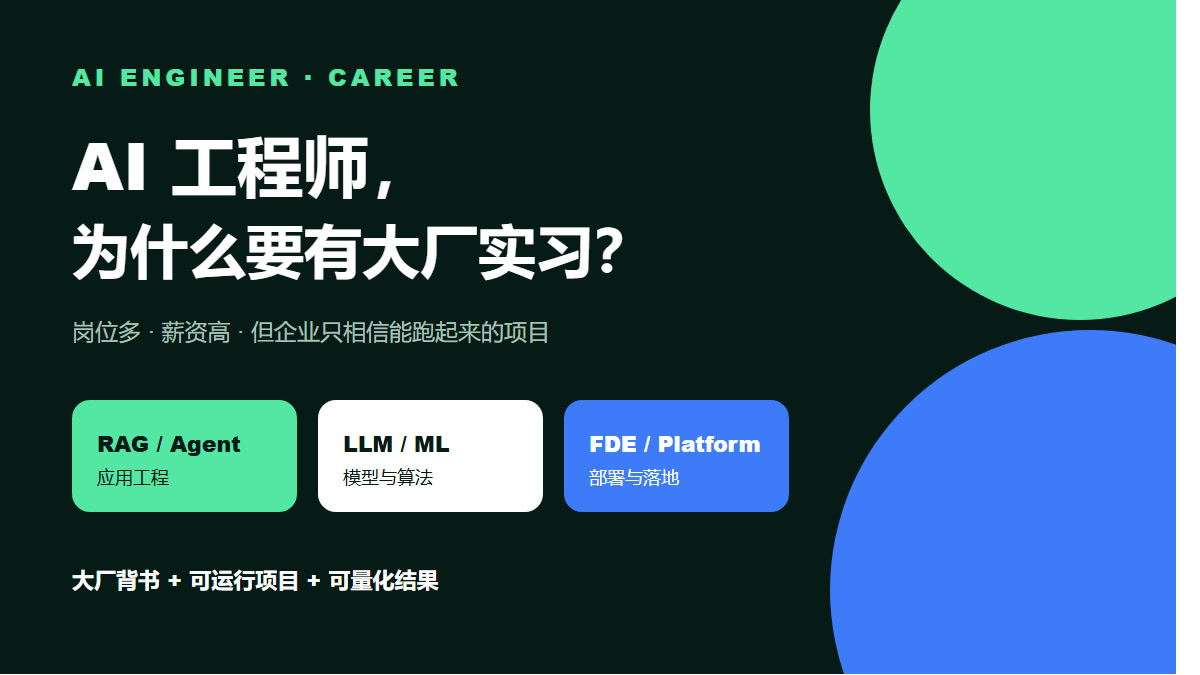
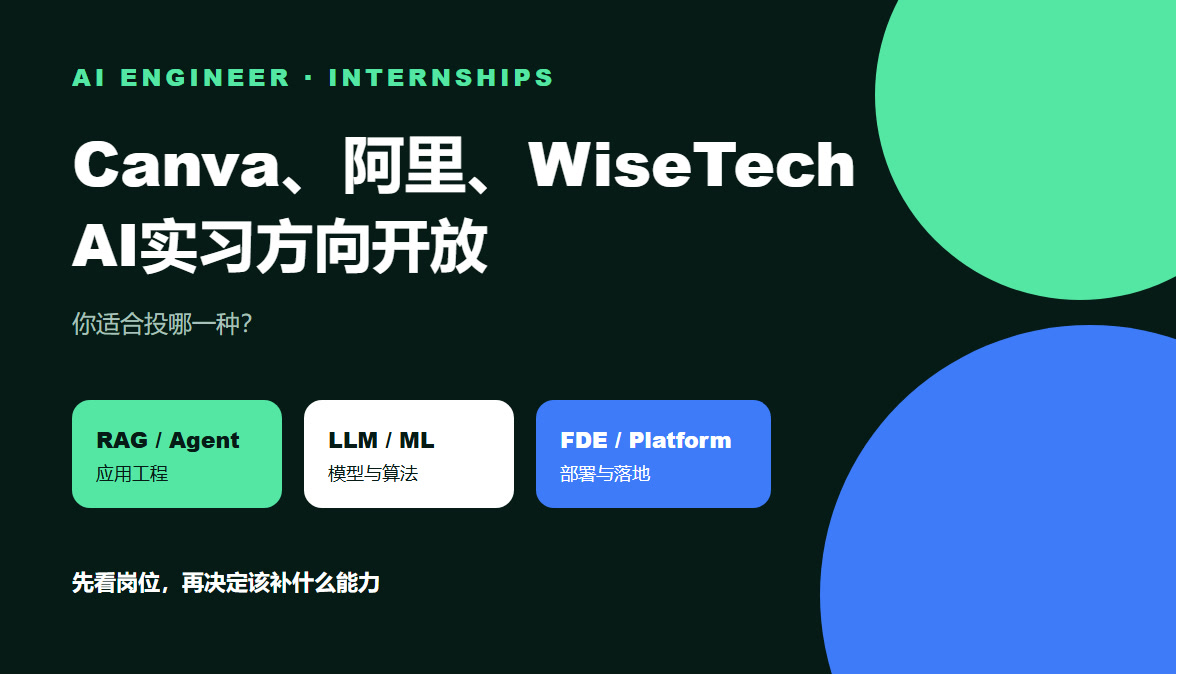
Rewrite AI engineer article around role selection

diff --git a/wechat-assets/apeintern/2026-11-12-ai-engineer/article.html b/wechat-assets/apeintern/2026-11-12-ai-engineer/article.html
@@ -1,46 +1,32 @@
-<!doctype html><html lang="zh-CN"><head><meta charset="utf-8"><meta name="viewport" content="width=device-width,initial-scale=1"><title>AI工程师，为什么一定要有一段大厂实习？</title><style>body{margin:0;background:#edf1ef;color:#1f2b28;font-family:-apple-system,BlinkMacSystemFont,"Segoe UI","PingFang SC","Microsoft YaHei",sans-serif}.toolbar{position:sticky;top:0;z-index:9;display:flex;gap:10px;align-items:center;justify-content:center;flex-wrap:wrap;padding:12px;background:#071a17;color:#fff}.toolbar button{border:0;border-radius:999px;background:#55e6a5;color:#071a17;padding:10px 22px;font-weight:800}.page{max-width:720px;margin:24px auto;background:#fff}#article{padding:36px 42px 52px;font-size:17px;line-height:1.82}h1{font-size:30px;line-height:1.35;margin:0 0 16px;color:#071a17}h2{font-size:21px;margin:36px 0 14px;color:#071a17}.lead{color:#4b5b56;border-left:4px solid #3e7bfa;padding-left:16px}.hero,.info{display:block;width:100%;height:auto;margin:22px 0;border-radius:10px}.caption{text-align:center;color:#7b8985;font-size:12px;margin-top:-12px}.highlight{margin:24px 0;padding:19px;background:#071a17;color:#fff;border-radius:10px;text-align:center;font-weight:700}.qr{display:block;width:68%;max-width:420px;height:auto;margin:20px auto 8px}.qrtext{text-align:center;font-weight:800;color:#071a17}.note{font-size:12px;color:#858f8c;margin-top:24px}ul{padding-left:1.4em}@media(max-width:760px){.page{margin:0}#article{padding:28px 22px 42px}h1{font-size:26px}}</style></head><body><div class="toolbar"><span>按顺序复制到公众号</span><button id="copyTitle">① 复制标题</button><button id="copySummary">② 复制摘要</button><button id="copyBtn">③ 复制正文</button></div><main class="page"><article id="article">
-<h1>AI工程师，为什么一定要有一段大厂实习？</h1>
-<p class="lead">岗位多、薪资高，但企业招的不是“学过Python和大模型”的学生，而是能把AI系统真正做出来、跑起来并不断优化的人。</p>
-<img class="hero" src="https://raw.githubusercontent.com/hades217/awesome-ai/master/wechat-assets/apeintern/2026-11-12-ai-engineer/cover.jpg" alt="AI工程师岗位与大厂实习">
+<!doctype html><html lang="zh-CN"><head><meta charset="utf-8"><meta name="viewport" content="width=device-width,initial-scale=1"><title>Canva、阿里、WiseTech等AI实习方向开放：你适合投哪一种？</title><style>body{margin:0;background:#edf1ef;color:#1f2b28;font-family:-apple-system,BlinkMacSystemFont,"Segoe UI","PingFang SC","Microsoft YaHei",sans-serif}.toolbar{position:sticky;top:0;z-index:9;display:flex;gap:10px;align-items:center;justify-content:center;flex-wrap:wrap;padding:12px;background:#071a17;color:#fff}.toolbar button{border:0;border-radius:999px;background:#55e6a5;color:#071a17;padding:10px 22px;font-weight:800}.page{max-width:720px;margin:24px auto;background:#fff}#article{padding:36px 42px 52px;font-size:17px;line-height:1.82}h1{font-size:30px;line-height:1.35;margin:0 0 16px;color:#071a17}h2{font-size:21px;margin:36px 0 14px;color:#071a17}.lead{color:#4b5b56;border-left:4px solid #3e7bfa;padding-left:16px}.hero,.info{display:block;width:100%;height:auto;margin:22px 0;border-radius:10px}.caption{text-align:center;color:#7b8985;font-size:12px;margin-top:-12px}.highlight{margin:24px 0;padding:19px;background:#071a17;color:#fff;border-radius:10px;text-align:center;font-weight:700}.qr{display:block;width:68%;max-width:420px;height:auto;margin:20px auto 8px}.qrtext{text-align:center;font-weight:800;color:#071a17}.note{font-size:12px;color:#858f8c;margin-top:24px}@media(max-width:760px){.page{margin:0}#article{padding:28px 22px 42px}h1{font-size:26px}}</style></head><body><div class="toolbar"><span>按顺序复制到公众号</span><button id="copyTitle">① 复制标题</button><button id="copySummary">② 复制摘要</button><button id="copyBtn">③ 复制正文</button></div><main class="page"><article id="article">
+<h1>Canva、阿里、WiseTech等AI实习方向开放：你适合投哪一种？</h1>
+<p class="lead">AI工程师不是一个岗位，而是一组差异很大的技术方向。先看目前有哪些公司和岗位，再决定该补什么能力。</p>
+<img class="hero" src="https://raw.githubusercontent.com/hades217/awesome-ai/master/wechat-assets/apeintern/2026-11-12-ai-engineer/cover.jpg" alt="AI工程师实习方向">
 
-<h2>岗位需求很大，薪资也不低</h2>
-<p>截至2026年11月12日，在LinkedIn Australia搜索“AI engineer jobs”，页面显示<strong>99+个相关结果</strong>。</p>
-<img class="info" src="https://raw.githubusercontent.com/hades217/awesome-ai/master/wechat-assets/apeintern/2026-11-12-ai-engineer/jobs-proof.jpg" alt="LinkedIn澳大利亚AI工程师岗位搜索结果">
-<p class="caption">LinkedIn公开招聘页面｜页面结果会实时变化</p>
-<p>Jora同期数据显示，澳大利亚Artificial Intelligence Engineer平均年薪约为<strong>A$145,000</strong>。</p>
-<img class="info" src="https://raw.githubusercontent.com/hades217/awesome-ai/master/wechat-assets/apeintern/2026-11-12-ai-engineer/salary-proof.jpg" alt="澳大利亚AI工程师平均薪资">
-<p class="caption">Jora薪资页面｜数据会随招聘市场更新</p>
-<div class="highlight">岗位很多，但大部分招聘都要求能够展示完整的工程项目。</div>
+<h2>目前可以选择哪些岗位？</h2>
+<img class="info" src="https://raw.githubusercontent.com/hades217/awesome-ai/master/wechat-assets/apeintern/2026-11-12-ai-engineer/roles.jpg" alt="AI工程师实习公司与岗位方向">
+<p><strong>Canva</strong>覆盖AI Engineer、Software Engineer和模型训练；<strong>WiseTech Global</strong>覆盖LLM、生成式AI、Applied AI和机器学习；<strong>阿里巴巴</strong>有AI Agent应用开发；<strong>New Aim</strong>有AI Engineer、FDE和平台工程方向。</p>
+<p>此外，Nuance、Cerence及SynSense等科技公司还覆盖AI研发、计算优化、深度学习、计算机视觉、AI芯片和边缘AI。<strong>公司与岗位方向还会持续增加。</strong></p>
 
-<h2>没有项目经历，很难证明你能做AI工程</h2>
-<p>招聘方通常会继续追问：</p>
-<ul><li>你搭过RAG、Agent或模型服务吗？</li><li>怎样构建评测集并分析失败样本？</li><li>准确率、延迟和成本如何权衡？</li><li>项目能不能部署、监控并稳定运行？</li></ul>
-<p>如果简历里只有课程、证书和调用API的小Demo，很难回答这些问题。</p>
+<h2>你要投的是哪一种AI工程师？</h2>
+<img class="info" src="https://raw.githubusercontent.com/hades217/awesome-ai/master/wechat-assets/apeintern/2026-11-12-ai-engineer/directions.jpg" alt="AI工程师五大就业方向">
+<p>喜欢把模型接入真实业务，可以看LLM、RAG和Agent；数学与模型基础强，可以看机器学习和算法；有后端、云计算基础，可以看AI Platform；既懂技术又擅长沟通交付，FDE会更适合。</p>
+<div class="highlight">不要先堆一串技能，再问自己能投什么。先选目标岗位，再反推项目和技术栈。</div>
 
-<h2>实习也有差别，能选大厂尽量选大厂</h2>
-<p><strong>大厂AI工程实习的优势很直接：</strong></p>
-<ul><li>公司背书强，简历更容易被识别；</li><li>接触的数据规模、系统复杂度和工程标准更高；</li><li>更重视测试、部署、监控、安全和成本；</li><li>项目更容易形成有分量的面试案例；</li><li>职业起点更高，后续申请更优质岗位更有优势。</li></ul>
-<p>小公司项目往往高度相似，也需要额外解释公司和业务；大厂名称和项目标准可以让简历更快建立认知。</p>
-
-<h2>目前可以选择哪些AI工程方向？</h2>
-<p><strong>Canva：</strong>AI Engineer、Software Engineer，包含AI模型训练方向。</p>
-<p><strong>WiseTech Global：</strong>LLM Engineer、Generative AI Engineer、Applied AI Engineer、Machine Learning Engineer。</p>
-<p><strong>阿里巴巴：</strong>AI Agent应用开发。</p>
-<p><strong>New Aim：</strong>AI Engineer、Platform Engineer、FDE、Data和全栈方向。</p>
-<p><strong>UQ：</strong>AI相关开发与架构设计。</p>
-<p><strong>Nuance、Cerence：</strong>AI工程、AI研究、软件开发和计算优化。</p>
-<p><strong>时识科技SynSense、星凡智能、数字天空科技：</strong>算法、大模型、AI芯片、边缘AI、多模态和AIGC方向。</p>
+<h2>会调用API，为什么还不够？</h2>
+<img class="info" src="https://raw.githubusercontent.com/hades217/awesome-ai/master/wechat-assets/apeintern/2026-11-12-ai-engineer/demo-vs-production.jpg" alt="AI课堂Demo与企业级项目对比">
+<p>课堂Demo证明“功能能跑”；企业招聘更关心“系统能不能稳定使用”。面试通常会继续追问：数据怎么处理？评测集怎么构建？失败样本如何分析？延迟、成本和准确率怎么取舍？项目怎样部署、监控和迭代？</p>
+<p>这也是大厂项目更有价值的原因：数据规模更大、工程规范更成熟、业务约束更真实。除了公司背书，你还能讲清楚一个项目怎样从需求走到上线。</p>
 
 <h2>一段有用的实习，应该怎样写进简历？</h2>
 <img class="info" src="https://raw.githubusercontent.com/hades217/awesome-ai/master/wechat-assets/apeintern/2026-11-12-ai-engineer/resume-examples.jpg" alt="大厂AI工程实习简历结构示例">
 <p class="caption">匿名简历结构示例；正式使用时必须替换为真实经历和数据</p>
-<p>不要只写“参与模型开发”。应该写清楚：</p>
-<p><strong>处理了什么数据 → 搭建了什么系统 → 怎样评测优化 → 最终结果如何。</strong></p>
+<p>不要只写“参与模型开发”，而要写清楚：<strong>处理了什么数据 → 搭建了什么系统 → 怎样评测优化 → 最终结果提升了多少。</strong></p>
 
-<h2 style="text-align:center">想申请大厂AI工程师实习？</h2>
+<h2 style="text-align:center">想申请AI工程师实习？</h2>
 <img class="qr" src="https://raw.githubusercontent.com/hades217/awesome-ai/master/wechat-assets/apeintern/2026-11-12-ai-engineer/wechat-qr.jpg" alt="微信咨询二维码">
 <p class="qrtext">长按识别二维码，提交简历咨询</p>
-<p class="note">岗位数量与薪资截图来自LinkedIn和Jora公开页面，截取于2026年11月12日，数据会随市场变化。简历图片为结构示例，不代表真实录用案例；真实案例应获得授权并完成隐私处理。</p>
+<p class="note">岗位方向根据目前整理的公司资源汇总，后续会持续增加。简历图片为匿名结构示例，不代表真实录用案例；真实案例应获得授权并完成隐私处理。</p>
 </article></main><script>
-const articleTitle='AI工程师，为什么一定要有一段大厂实习？';const articleSummary='澳大利亚AI工程岗位数量多、平均薪资可观，但没有完整项目经历很难进入全职岗位。用真实招聘与薪资截图讲清：AI工程实习也有差别，能选大厂尽量选大厂。';async function cp(v,b,d){try{await navigator.clipboard.writeText(v)}catch(e){const x=document.createElement('textarea');x.value=v;document.body.appendChild(x);x.select();document.execCommand('copy');x.remove()}b.textContent=d}copyTitle.onclick=function(){cp(articleTitle,this,'标题已复制')};copySummary.onclick=function(){cp(articleSummary,this,'摘要已复制')};function body(){const c=article.cloneNode(true);c.querySelector('h1').remove();c.style.cssText='display:block;margin:0;padding:0;background:#fff;color:#1f2b28;font-size:17px;line-height:1.82;text-align:left;word-break:break-word;';c.querySelectorAll('h2').forEach(e=>{const p=document.createElement('p');p.innerHTML='<strong>'+e.innerHTML+'</strong>';const centered=e.getAttribute('style')&&e.getAttribute('style').indexOf('center')>-1;p.style.cssText='display:block;margin:32px 0 14px;padding:7px 0 7px 13px;border-left:'+(centered?'0':'4px solid #3e7bfa')+';color:#071a17;font-size:20px;line-height:1.5;text-align:'+(centered?'center':'left')+';background:#fff;';e.replaceWith(p)});c.querySelectorAll('p').forEach(e=>{if(e.style.borderLeft)return;if(e.classList.contains('lead'))e.style.cssText='display:block;margin:0 0 22px;padding:14px 16px;border-left:4px solid #3e7bfa;background:#eef4ff;color:#4b5b56;font-size:16px;line-height:1.75;text-align:left;';else if(e.classList.contains('caption'))e.style.cssText='display:block;margin:7px 0 20px;color:#7b8985;font-size:12px;line-height:1.6;text-align:center;';else if(e.classList.contains('qrtext'))e.style.cssText='display:block;margin:8px 0;color:#071a17;font-size:16px;font-weight:700;text-align:center;';else if(e.classList.contains('note'))e.style.cssText='display:block;margin:24px 0 0;color:#858f8c;font-size:12px;line-height:1.7;text-align:left;';else e.style.cssText='display:block;margin:10px 0;color:#1f2b28;font-size:17px;line-height:1.82;text-align:left;'});c.querySelectorAll('ul').forEach(e=>e.style.cssText='display:block;margin:12px 0;padding-left:1.5em;color:#1f2b28;font-size:17px;line-height:1.8;text-align:left;');c.querySelectorAll('li').forEach(e=>e.style.cssText='margin:6px 0;text-align:left;');c.querySelectorAll('img').forEach(e=>e.style.cssText='display:block;margin:20px auto;width:100%;max-width:100%;height:auto;border-radius:8px;');const q=c.querySelector('.qr');if(q)q.style.width='68%';const h=c.querySelector('.highlight');if(h)h.style.cssText='display:block;margin:22px 0;padding:17px 15px;border-radius:8px;background:#071a17;color:#fff;font-size:16px;font-weight:700;text-align:center;';c.querySelectorAll('*').forEach(e=>{e.style.backgroundImage='none';e.removeAttribute('class');e.removeAttribute('id')});return c}copyBtn.onclick=async function(){const c=body(),h=c.innerHTML,p=c.innerText;try{await navigator.clipboard.write([new ClipboardItem({'text/html':new Blob([h],{type:'text/html'}),'text/plain':new Blob([p],{type:'text/plain'})})])}catch(e){c.style.position='fixed';c.style.left='-99999px';document.body.appendChild(c);const r=document.createRange();r.selectNodeContents(c);const s=getSelection();s.removeAllRanges();s.addRange(r);document.execCommand('copy');s.removeAllRanges();c.remove()}this.textContent='正文已复制'};
+const articleTitle='Canva、阿里、WiseTech等AI实习方向开放：你适合投哪一种？';const articleSummary='AI工程师并不是一个岗位。先看Canva、阿里、WiseTech等公司的实习方向，再分清LLM、Agent、算法、FDE与AI平台分别需要什么能力。';async function cp(v,b,d){try{await navigator.clipboard.writeText(v)}catch(e){const x=document.createElement('textarea');x.value=v;document.body.appendChild(x);x.select();document.execCommand('copy');x.remove()}b.textContent=d}copyTitle.onclick=function(){cp(articleTitle,this,'标题已复制')};copySummary.onclick=function(){cp(articleSummary,this,'摘要已复制')};function body(){const c=article.cloneNode(true);c.querySelector('h1').remove();c.style.cssText='display:block;margin:0;padding:0;background:#fff;color:#1f2b28;font-size:17px;line-height:1.82;text-align:left;word-break:break-word;';c.querySelectorAll('h2').forEach(e=>{const p=document.createElement('p');p.innerHTML='<strong>'+e.innerHTML+'</strong>';const centered=e.getAttribute('style')&&e.getAttribute('style').indexOf('center')>-1;p.style.cssText='display:block;margin:32px 0 14px;padding:7px 0 7px 13px;border-left:'+(centered?'0':'4px solid #3e7bfa')+';color:#071a17;font-size:20px;line-height:1.5;text-align:'+(centered?'center':'left')+';background:#fff;';e.replaceWith(p)});c.querySelectorAll('p').forEach(e=>{if(e.style.borderLeft)return;if(e.classList.contains('lead'))e.style.cssText='display:block;margin:0 0 22px;padding:14px 16px;border-left:4px solid #3e7bfa;background:#eef4ff;color:#4b5b56;font-size:16px;line-height:1.75;text-align:left;';else if(e.classList.contains('caption'))e.style.cssText='display:block;margin:7px 0 20px;color:#7b8985;font-size:12px;line-height:1.6;text-align:center;';else if(e.classList.contains('qrtext'))e.style.cssText='display:block;margin:8px 0;color:#071a17;font-size:16px;font-weight:700;text-align:center;';else if(e.classList.contains('note'))e.style.cssText='display:block;margin:24px 0 0;color:#858f8c;font-size:12px;line-height:1.7;text-align:left;';else e.style.cssText='display:block;margin:10px 0;color:#1f2b28;font-size:17px;line-height:1.82;text-align:left;'});c.querySelectorAll('img').forEach(e=>e.style.cssText='display:block;margin:20px auto;width:100%;max-width:100%;height:auto;border-radius:8px;');const q=c.querySelector('.qr');if(q)q.style.width='68%';const h=c.querySelector('.highlight');if(h)h.style.cssText='display:block;margin:22px 0;padding:17px 15px;border-radius:8px;background:#071a17;color:#fff;font-size:16px;font-weight:700;text-align:center;';c.querySelectorAll('*').forEach(e=>{e.style.backgroundImage='none';e.removeAttribute('class');e.removeAttribute('id')});return c}copyBtn.onclick=async function(){const c=body(),h=c.innerHTML,p=c.innerText;try{await navigator.clipboard.write([new ClipboardItem({'text/html':new Blob([h],{type:'text/html'}),'text/plain':new Blob([p],{type:'text/plain'})})])}catch(e){c.style.position='fixed';c.style.left='-99999px';document.body.appendChild(c);const r=document.createRange();r.selectNodeContents(c);const s=getSelection();s.removeAllRanges();s.addRange(r);document.execCommand('copy');s.removeAllRanges();c.remove()}this.textContent='正文已复制'};
 </script></body></html>
